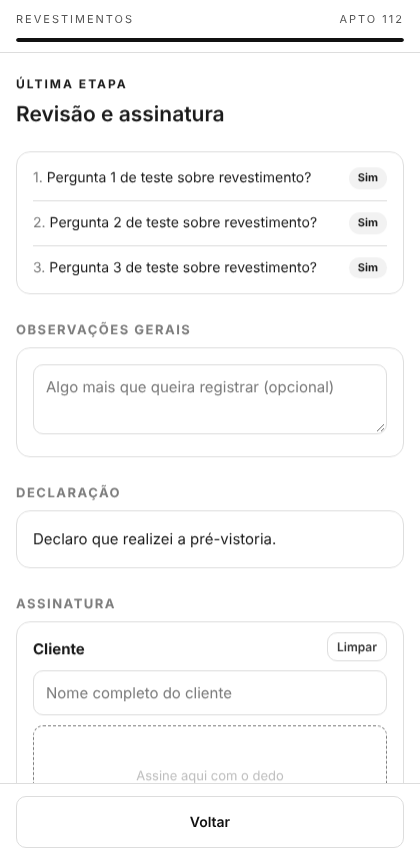
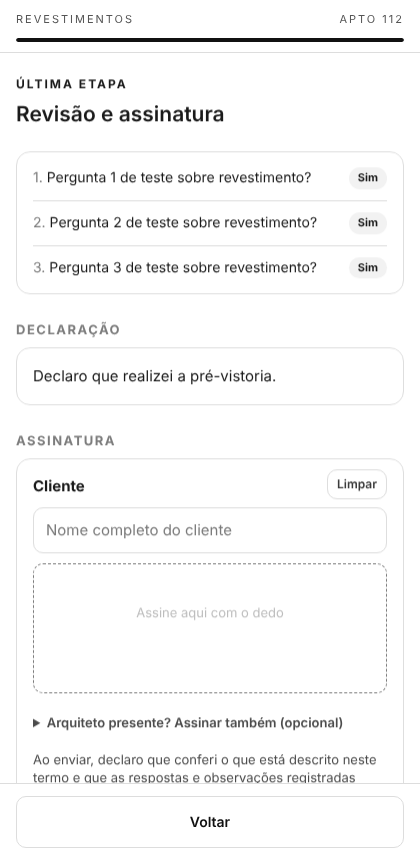
Termo de Revestimentos: só aprovação da escolha e da paginação, sem campos livres no Sim
Claude-Session: https://claude.ai/code/session_01GNSTEr5i33u5FKcjZNMuRo

diff --git a/index.html b/index.html
@@ -7252,7 +7252,7 @@ async function lerDados(forcarFresco) {
 // ===================== TERMOS E VISTORIAS · OK DE OBRA =====================
 let dadosTermos = [];
 const NT_MODELOS = {
-  'Revestimentos': { intro: 'Esta é a pré-vistoria dos revestimentos do seu apartamento no Essence Residence, com foco na escolha dos revestimentos e na paginação (a forma como as peças foram distribuídas e alinhadas). Percorra a unidade com calma, ambiente por ambiente, e responda cada pergunta com Sim ou Não. Se algo não estiver como você escolheu ou combinou, marque Não e registre com foto e/ou observação, para que a Absoluta resolva. No final, você confirma e assina na tela.', titulo: 'Termo de Revestimentos', texto: 'Declaro que realizei a pré-vistoria do meu apartamento e conferi os revestimentos e a paginação executados. Estou de acordo com a escolha dos revestimentos e com a paginação, ressalvados apenas os pontos expressamente registrados neste termo, que a Absoluta Construtora e Incorporadora se compromete a analisar e corrigir quando procedentes. Esta pré-vistoria refere-se somente à escolha dos revestimentos e à paginação, e não substitui a vistoria final de entrega do imóvel.', itens: ['Os revestimentos aplicados em cada ambiente são os que eu escolhi na personalização (modelo, cor e formato)?','A tonalidade e o acabamento das peças estão de acordo com o que eu aprovei?','A paginação está como foi definida (sentido de assentamento, alinhamento e posição das peças)?','As juntas estão alinhadas e com espessura uniforme?','Os recortes e arremates (cantos, encontros, soleiras, nichos e ralos) estão bem resolvidos?','As peças estão sem trincas, lascas, manchas ou som oco?','A superfície está nivelada, sem peças desniveladas ou "dentes" entre elas?','O rejuntamento está na cor combinada e bem acabado?','O revestimento está limpo e protegido?'] },
+  'Revestimentos': { intro: 'Esta é a pré-vistoria dos revestimentos do seu apartamento no Essence Residence. O objetivo é você conferir e aprovar o revestimento que foi instalado, de acordo com a sua escolha, e a paginação executada (a forma como as peças foram distribuídas e alinhadas em cada ambiente). Percorra a unidade com calma e responda cada pergunta com Sim ou Não. No final, você confirma e assina na tela.', titulo: 'Termo de Revestimentos', texto: 'Declaro que realizei a pré-vistoria do meu apartamento, conferi o revestimento instalado e a paginação executada em cada ambiente, e aprovo ambos, de acordo com a minha escolha. Estou ciente de que esta pré-vistoria trata exclusivamente da escolha do revestimento e da paginação, e que a vistoria de acabamento e de entrega do imóvel é realizada em etapa própria.', itens: ['O revestimento instalado em cada ambiente é o que eu escolhi na personalização?','Estou de acordo com a paginação executada (distribuição e alinhamento das peças) em todos os ambientes?','O revestimento está limpo?','Aprovo o revestimento instalado e a paginação executada no meu apartamento?'] },
   'Elétrica': { intro: 'Este termo se refere à conferência da etapa de instalações elétricas executada no seu apartamento. Percorra a unidade com calma e responda cada pergunta. Se algo não estiver conforme, marque Não e registre com foto e/ou observação, para que a gente resolva. No final, você confirma e assina na tela.', titulo: 'Termo de Elétrica', texto: 'Declaro que conferi, em visita ao apartamento, a etapa de instalações elétricas executada pela Absoluta Construtora e Incorporadora, e que os itens abaixo estão de acordo com o projeto e com o que foi combinado, ressalvados os pontos expressamente registrados neste termo.', itens: ['Pontos de tomada, interruptores e iluminação nas posições do projeto','Todos os pontos acendem e funcionam normalmente','Quadro de distribuição identificado, com disjuntores e DR testados','Pontos de ar-condicionado, chuveiro e demais cargas especiais conferidos','Espelhos e placas bem fixados, sem danos ou sujeira de massa e tinta','Pontos de dados, TV e interfone conferidos (quando houver)'] },
   'Hidráulica': { intro: 'Este termo se refere à conferência da etapa de instalações hidráulicas executada no seu apartamento. Percorra a unidade com calma e responda cada pergunta. Se algo não estiver conforme, marque Não e registre com foto e/ou observação, para que a gente resolva. No final, você confirma e assina na tela.', titulo: 'Termo de Hidráulica', texto: 'Declaro que conferi, em visita ao apartamento, a etapa de instalações hidráulicas executada pela Absoluta Construtora e Incorporadora, e que os itens abaixo estão de acordo com o projeto e com o que foi combinado, ressalvados os pontos expressamente registrados neste termo.', itens: ['Pontos de água fria e quente nas posições do projeto','Registros e pontos de água testados, sem vazamento aparente','Ralos e esgoto escoando normalmente (teste de escoamento feito)','Teste de pressão / estanqueidade das tubulações realizado','Acabamentos de registros e canoplas bem fixados e sem danos','Pontos de gás e aquecimento conferidos (quando houver)'] },
   'Marmoraria': { intro: 'Este termo se refere à conferência dos serviços de marmoraria executados no seu apartamento. Percorra a unidade com calma e responda cada pergunta. Se algo não estiver conforme, marque Não e registre com foto e/ou observação, para que a gente resolva. No final, você confirma e assina na tela.', titulo: 'Termo de Marmoraria', texto: 'Declaro que conferi, em visita ao apartamento, os serviços de marmoraria executados e que os itens abaixo estão de acordo com o que foi contratado, ressalvados os pontos expressamente registrados neste termo.', itens: ['Pedras instaladas conforme o projeto e o orçamento','Sem trincas, lascas ou manchas','Cortes, furos e recortes corretos (cuba, cooktop, torneira)','Acabamento das bordas e juntas','Silicone / vedação aplicados'] },

diff --git a/ok.html b/ok.html
@@ -667,7 +667,9 @@ function irParaItem(id) { const k = passos.findIndex(q => q.t === 'item' && term
 function respondido(it) { return it.status === 'ok' || (it.status === 'ressalva' && (String(it.obs || '').trim() || (it.fotos || []).length > 0)); }
 function fotosHtml(it) { return (it.fotos || []).map(id => `<a href="${fotoLink(id)}" target="_blank" rel="noopener"><img src="${fotoUrl(id, 300)}" alt="Foto"></a>`).join(''); }
 // parte de baixo da pergunta: aparece quando a resposta é "Não" (ou se a pessoa quiser acrescentar algo ao "Sim")
+function semExtras() { return termo.categoria !== 'prestador' && termo.modulo === 'Revestimentos'; }
 function extraHtml(it) {
+  if (semExtras() && it.status !== 'ressalva') return '';
   const aberto = it.status === 'ressalva' || window._extraAberto === it.id || String(it.obs || '').trim() || (it.fotos || []).length;
   if (it.status === 'ok' && !aberto) return `<button class="extra-add" onclick="window._extraAberto='${it.id}';document.getElementById('extra-${it.id}').innerHTML=extraHtml(termo.itens.find(x=>x.id==='${it.id}'))">＋ Adicionar foto ou comentário</button>`;
   if (!it.status) return '';
@@ -717,7 +719,7 @@ function desenhar() {
   } else {
     corpo = `<div class="q-num">Última etapa</div><h2 class="q-txt">Revisão e assinatura</h2>
       ${termo.itens.length ? `<div class="card" style="padding:4px 16px">${termo.itens.map((it, i) => `<div class="resumo-lin" onclick="irParaItem('${it.id}')"><span><span style="color:var(--text3)">${i + 1}.</span> ${esc(it.texto)}</span><span class="badge ${it.status === 'ok' ? 'ok' : 'res'}">${it.status === 'ok' ? 'Sim' : it.status === 'ressalva' ? 'Não' : '—'}</span></div>`).join('')}</div>` : ''}
-      <h2>Observações gerais</h2><div class="card" style="margin-top:8px"><textarea id="obs-geral" placeholder="Algo mais que queira registrar (opcional)" style="margin-top:0">${esc(termo.obs_geral)}</textarea></div>
+      ${semExtras() ? '<textarea id="obs-geral" style="display:none"></textarea>' : `<h2>Observações gerais</h2><div class="card" style="margin-top:8px"><textarea id="obs-geral" placeholder="Algo mais que queira registrar (opcional)" style="margin-top:0">${esc(termo.obs_geral)}</textarea></div>`}
       ${termo.texto ? `<h2>Declaração</h2><div class="card" style="margin-top:8px"><div class="capa-txt">${esc(termo.texto)}</div></div>` : ''}
       <h2>Assinatura</h2>
       <div class="card" style="margin-top:8px">
